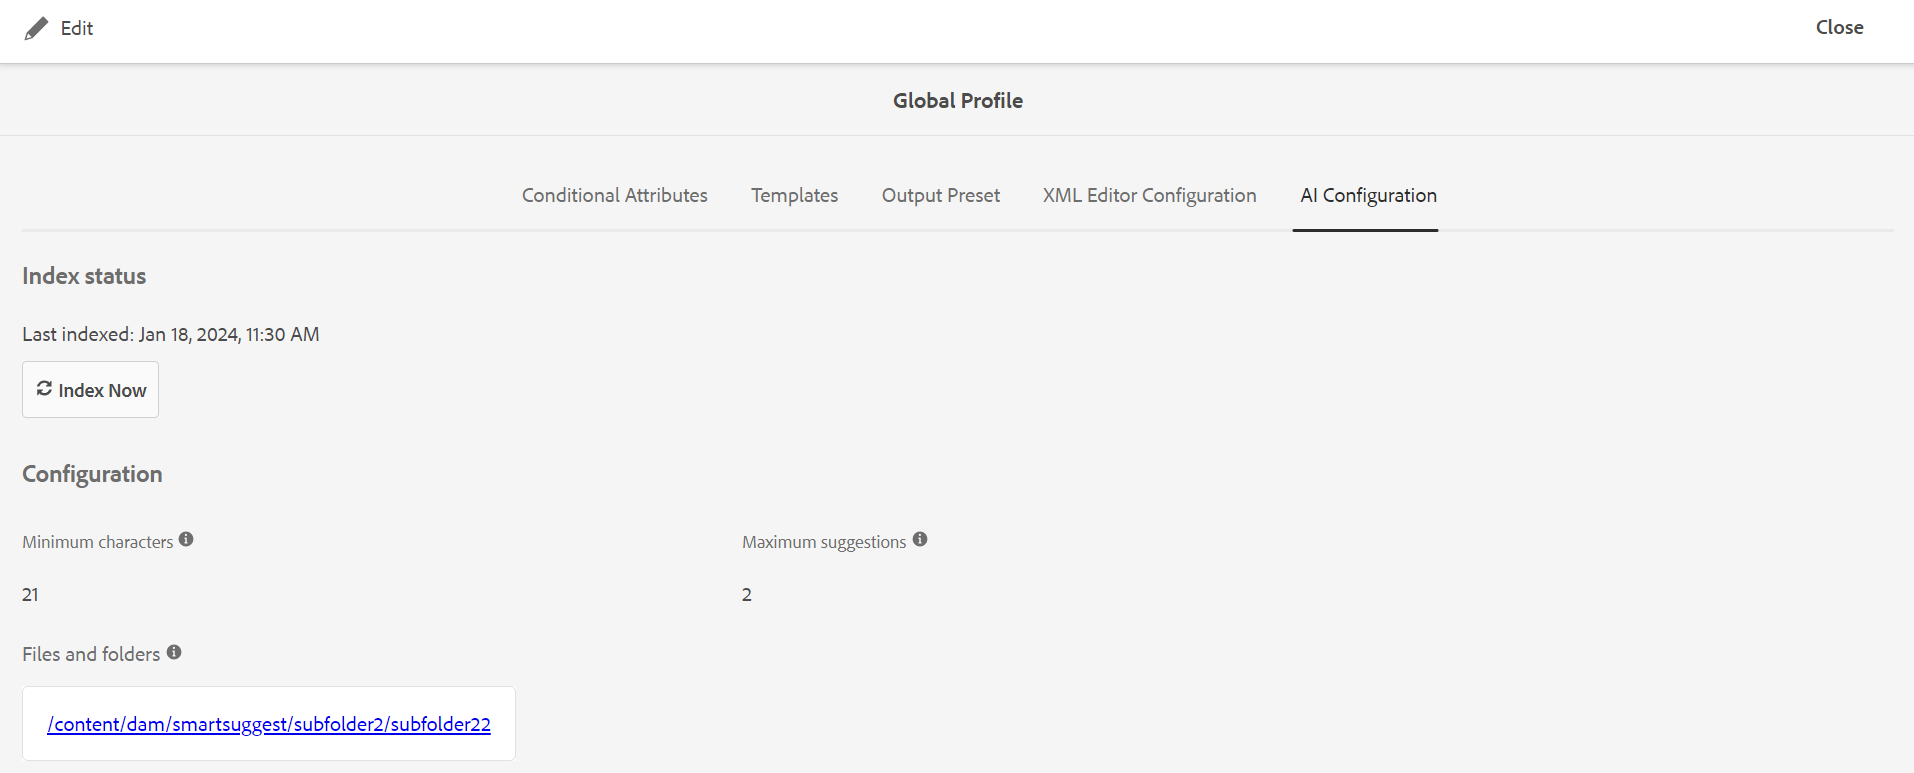
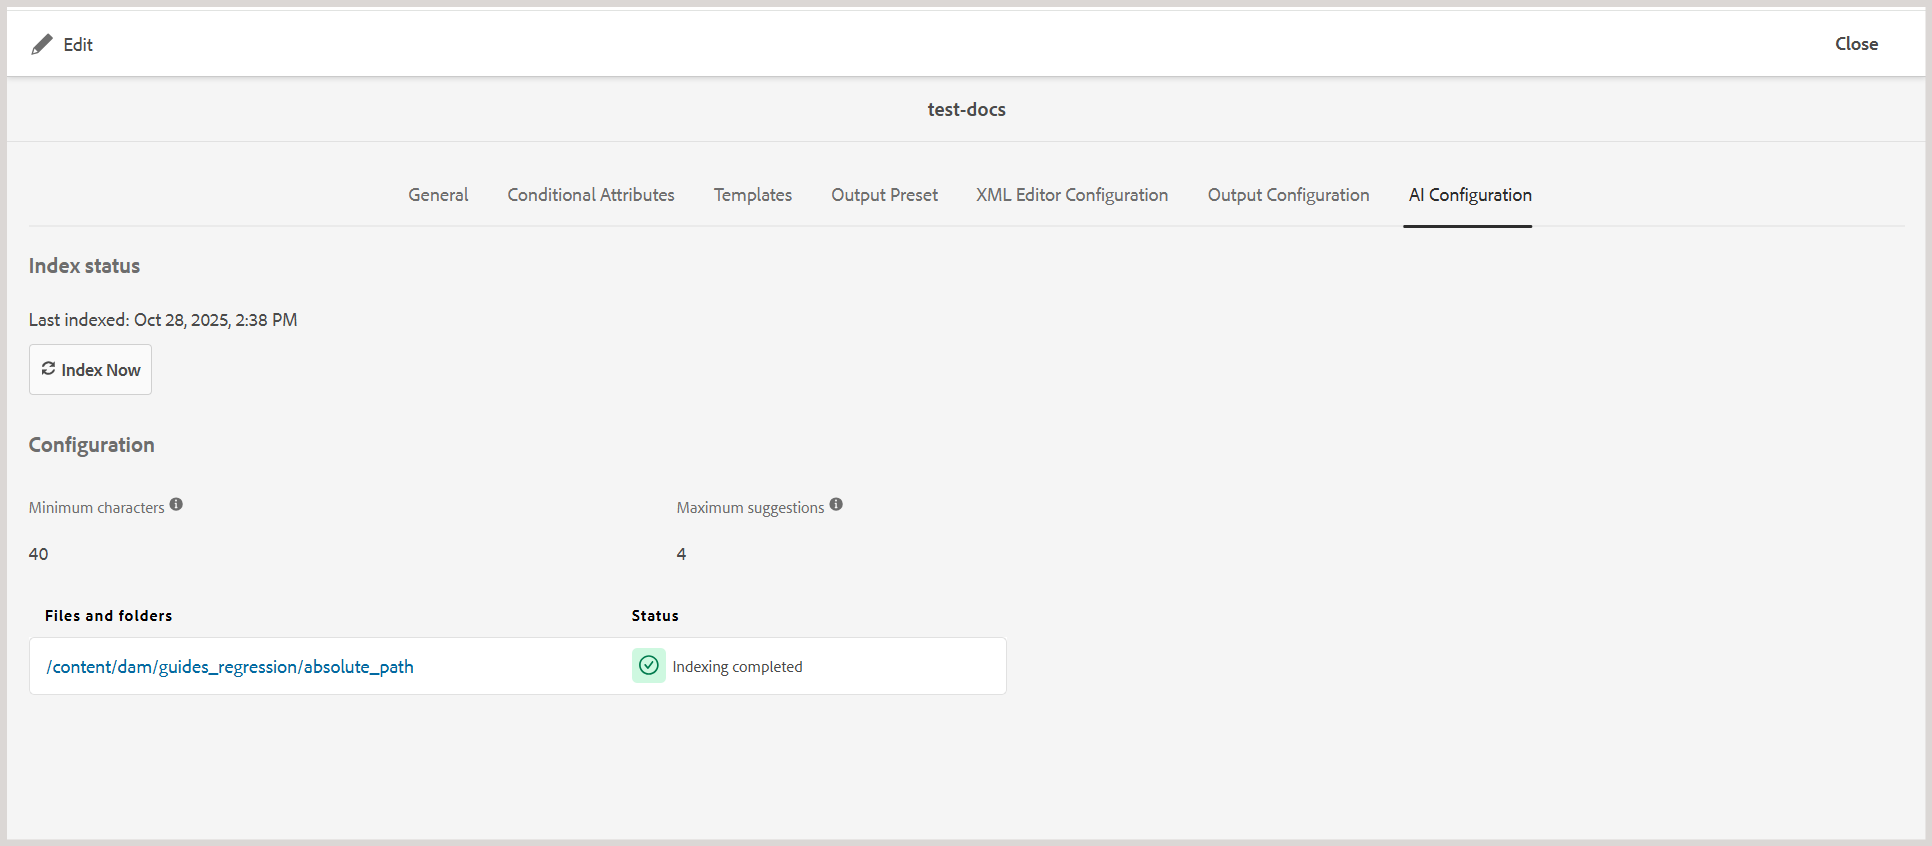
Updated ai assistant admin doc

diff --git a/help/product-guide/cs-install-guide/conf-folder-level.md b/help/product-guide/cs-install-guide/conf-folder-level.md
@@ -413,7 +413,7 @@ For configuration details, view [AI Assistant configuration](./conf-smart-sugges
 
 **Configure AI-powered smart suggestions**
 
-You can configure the AI-powered smart suggestions and help the authors reuse the existing content and easily create correct and consistent content references. The **AI Configuration** tab allows you to control the settings of  **Suggest reusable content** from the AI Assistant panel in the Web Editor.
+You can configure the AI-powered smart suggestions and help the authors reuse the existing content and easily create correct and consistent content references. The **AI Configuration** tab allows you to control the settings of  **Suggest reusable content** from the AI Assistant panel in the Editor.
 
 Perform the following steps to configure standard AI configuration at the global or folder-level profile:
 1. Log into Adobe Experience Manager as an administrator or user with administrative rights on a folder-level profile.
@@ -432,19 +432,43 @@ Perform the following steps to configure standard AI configuration at the global
 1. Select **Edit**.
 1. As an administrator, you can configure the following settings:
 
-    **Minimum characters**: Enter the minimum number of characters that the authors need to type in to get the suggestions. For example, if this number is 7, the author must add at least 7 characters to view a smart suggestion. 
+    **Minimum characters**: Enter the minimum number of characters that the authors need to select to get the suggestions. For example, if this number is 7, the author must select at least 7 characters to view a smart suggestion. 
+    
+    For selections that do not meet the minimum character requirement, the following message is displayed in the AI Assistant panel:
+
+    ![](assets/smart-suggestions-character-limit.png)   
+
+    
+    This helps you understand whether suggestions are unavailable due to insufficient character selection or genuinely no matching content.
 
     **Maximum suggestions**: Enter the maximum number of suggestions the authors can get while authoring the content. For example, if this number is 5, the author can view five or fewer smart suggestions.
 
-    **Files and folders**: Select the files or folders from which the smart suggestions should be shown. *For consistency of content, it's recommended that no two entries in the list have common files between them*. Once you select the files and folders, they are listed.
+    **Files and folders**: Select the files or folders from which the smart suggestions should be shown. Only child folders of the specified folder path in a folder profile can be selected. For more details, view [Folder profile restrictions](#folder-profile-restrictions).
+
+    *To maintain consistency of content, it's recommended that no two entries in the list have common files between them*. Once you select the files and folders, they are listed. 
 
 1. Click **Save**.
 
     >[!NOTE]
     >
-    > The last indexed status details are displayed on the top after you save the file. 
+    > The last indexed status of the Folder profile is displayed on the top after you save the file. 
 
 Learn more about how to view and add [AI-based smart suggestions](../user-guide/authoring-ai-based-smart-suggestions.md) to add content references while authoring in the Web Editor.
+
+### Folder profile restrictions
+
+To ensure smart suggestions work effectively, keep the following points in mind when indexing folders:
+
+1. Content must be indexed via folder profiles for the AI assistant to provide smart suggestions to Authors.
+2. When specifying a folder path for indexing, only child folders of that path can be added. Attempting to add folders outside this path will trigger a warning.
+    
+    This restriction applies only to folder-level profiles. The global profile does not enforce path limitations and can index folders that do not lie under any other folder profile.
+3. If a parent folder is added for indexing, any child folders already listed are automatically removed to avoid duplication. Adding a child folder of an already indexed parent will also trigger a warning.
+4. Any updates, moves, or deletions of files within indexed folders trigger automatic reindexing or removal from the index.
+5. For each indexing attempt, an indexing status (e.g., In Progress, Indexing completed, Indexing failed, and Not in sync) is displayed. When indexing fails, two more options are displayed:
+    - View error logs
+    - Retry indexing
+6. A timestamp for the last index time is displayed for each folder profile. 
 
 **Customize the default questions for smart help**
 
